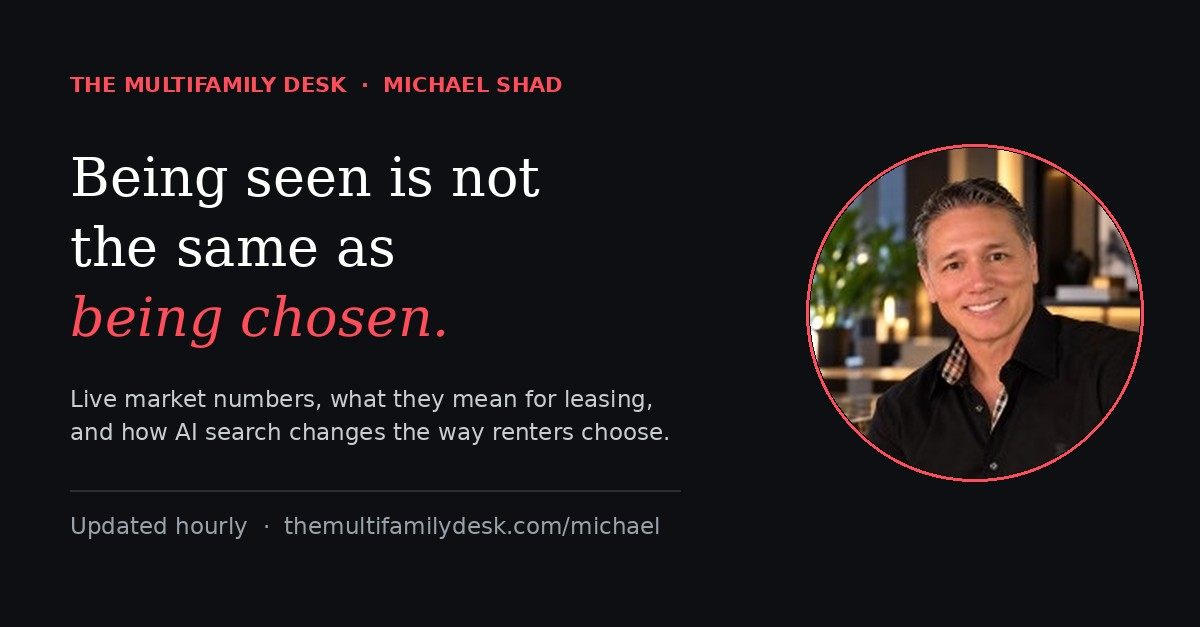
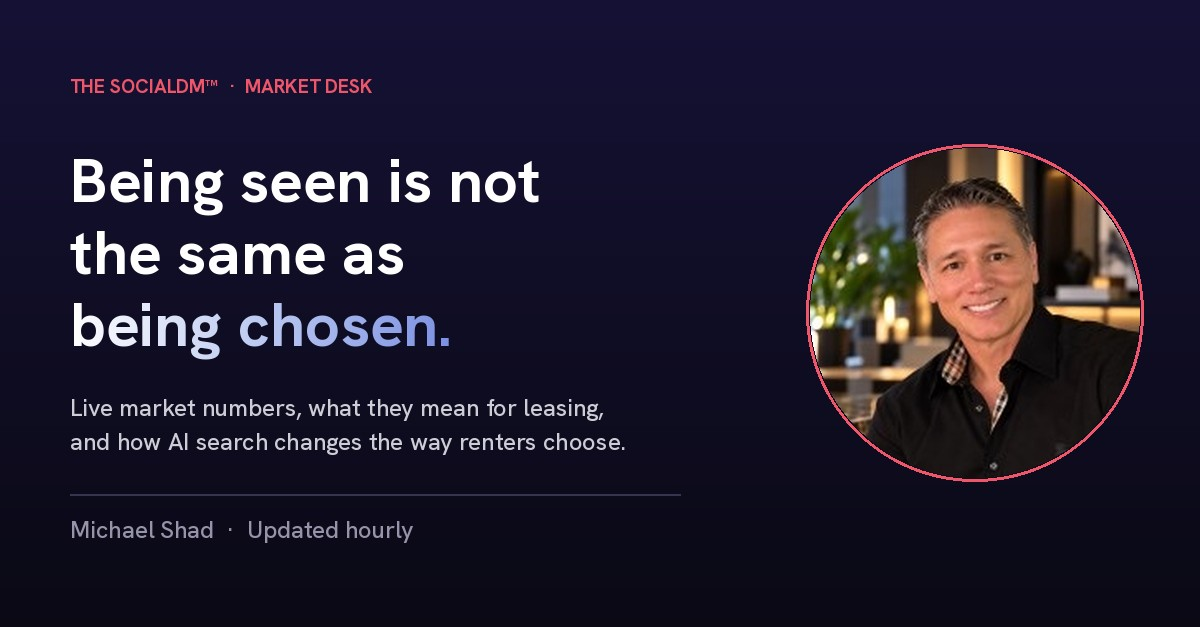
Michael preview: SocialDM site fonts, colors and buttons; SocialDM branding; share image in Hanken Grotesk
Claude-Session: https://claude.ai/code/session_01APSB1hf2Mvpo5YChiyDr2h

diff --git a/michael/index.html b/michael/index.html
@@ -3,28 +3,28 @@
 <head>
 <meta charset="utf-8">
 <meta name="viewport" content="width=device-width,initial-scale=1">
-<title>Michael Shad | Multifamily Marketing, AI Search and Market Data</title>
+<title>Market Desk | The SocialDM: Multifamily Market Data and AI Search</title>
 <meta name="description" content="Multifamily market numbers, checked hourly, what they mean for leasing and marketing, and how AI search is changing the way renters choose. From Michael Shad, founder of The SocialDM.">
 <meta name="robots" content="noindex,nofollow">
 <link rel="canonical" href="https://themultifamilydesk.com/michael/">
-<meta property="og:title" content="Michael Shad | Multifamily Marketing, AI Search and Market Data">
+<meta property="og:title" content="Market Desk | The SocialDM: Multifamily Market Data and AI Search">
 <meta property="og:description" content="Multifamily market numbers, checked hourly, what they mean for leasing and marketing, and how AI search is changing the way renters choose.">
 <meta property="og:url" content="https://themultifamilydesk.com/michael/">
 <meta property="og:type" content="website">
-<meta property="og:site_name" content="The Multifamily Desk">
+<meta property="og:site_name" content="The SocialDM">
 <meta property="og:image" content="https://themultifamilydesk.com/michael/img/og-michael.jpg">
 <meta property="og:image:width" content="1200">
 <meta property="og:image:height" content="627">
 <meta name="twitter:card" content="summary_large_image">
 <link rel="icon" href="/favicon.svg" type="image/svg+xml">
 <link rel="preconnect" href="https://fonts.googleapis.com">
-<link href="https://fonts.googleapis.com/css2?family=Instrument+Serif:ital@0;1&amp;family=Geist:wght@300..700&amp;display=swap" rel="stylesheet">
+<link href="https://fonts.googleapis.com/css2?family=Hanken+Grotesk:ital,wght@0,300;0,400;0,500;0,600;0,700;0,800;1,700&amp;display=swap" rel="stylesheet">
 <style>
-:root{--ink:#0d0f12;--ink2:#15181d;--line:#2a2f36;--mute:#9aa1a9;--soft:#c9cdd2;--lime:#ff4d5a;--paper:#ffffff}
+:root{--ink:#0A0914;--ink2:#14112E;--line:rgba(255,255,255,.14);--mute:rgba(255,255,255,.56);--soft:rgba(255,255,255,.74);--lime:#F0566A;--mist:#B4C3F0;--sky:#7A8FE2;--paper:#E9E8F2;--head:"Hanken Grotesk","Inter",ui-sans-serif,system-ui,sans-serif}
 *{box-sizing:border-box}
-body{margin:0;background:var(--ink);color:#fff;font-family:Geist,system-ui,sans-serif;-webkit-font-smoothing:antialiased}
+body{margin:0;background:var(--ink) linear-gradient(180deg,#0A0914 0,#151135 640px,#0A0914 1400px) no-repeat;color:#fff;font-family:var(--head);-webkit-font-smoothing:antialiased}
 a{color:inherit}
-.serif{font-family:"Instrument Serif",Georgia,serif;font-weight:400}
+.serif{font-family:var(--head);font-weight:700;letter-spacing:-.03em}
 .wrap{max-width:1180px;margin:0 auto;padding:0 24px}
 .top{display:flex;justify-content:space-between;align-items:center;padding:20px 0;border-bottom:1px solid var(--line);font-size:13px;color:var(--mute);letter-spacing:.04em;text-transform:uppercase}
 .top b{color:#fff;font-weight:600}
@@ -34,43 +34,43 @@ a{color:inherit}
 .sig{font-size:14px;color:var(--mute);margin-top:14px}
 @media(max-width:820px){.hgrid{grid-template-columns:minmax(0,1fr)}.pic{width:120px;height:120px;order:-1}}
 .eyebrow{font-size:13px;letter-spacing:.08em;text-transform:uppercase;color:var(--lime)}
-h1{font-size:clamp(44px,7vw,88px);line-height:1;margin:18px 0 0;max-width:900px}
-h1 em{font-style:italic;color:var(--lime)}
+h1{font-size:clamp(42px,6.6vw,84px);line-height:1.02;margin:18px 0 0;max-width:900px;text-wrap:balance}
+h1 em{font-style:normal;background:linear-gradient(90deg,#fff,var(--mist) 55%,var(--sky));-webkit-background-clip:text;background-clip:text;color:transparent}
 .lede{font-size:19px;line-height:1.55;color:var(--soft);max-width:680px;margin:24px 0 0}
 .btns{display:flex;gap:12px;flex-wrap:wrap;margin-top:32px}
-.btn{display:inline-block;padding:14px 22px;font-size:15px;font-weight:600;text-decoration:none;border:1px solid #fff}
-.btn.solid{background:var(--lime);border-color:var(--lime);color:var(--ink)}
+.btn{display:inline-flex;align-items:center;justify-content:center;font:600 13px/1 var(--head);letter-spacing:.12em;text-transform:uppercase;padding:20px 32px;border-radius:6px;text-decoration:none;color:#fff;box-shadow:inset 0 0 0 1.5px rgba(255,255,255,.85)}
+.btn.solid{background:var(--paper);color:var(--ink);box-shadow:none}
 .facts{display:grid;grid-template-columns:repeat(3,minmax(0,1fr));border-top:1px solid var(--line);border-bottom:1px solid var(--line);margin-top:56px}
 .facts>div{padding:22px 24px 22px 0}
 .facts>div+div{padding-left:24px;border-left:1px solid var(--line)}
-.facts .n{font-size:34px}
+.facts .n{font-size:34px;font-weight:700;letter-spacing:-.03em}
 .facts .l{font-size:14px;color:var(--mute);margin-top:6px;line-height:1.4}
 section{padding:72px 0 0}
 .sh{display:flex;justify-content:space-between;align-items:baseline;gap:16px;flex-wrap:wrap;margin-bottom:22px}
-h2{font-size:44px;line-height:1.05;margin:0}
+h2{font-size:44px;line-height:1.05;margin:0;letter-spacing:-.03em}
 .sub{font-size:15px;color:var(--mute);margin-top:8px;max-width:620px;line-height:1.5}
 .chk{font-size:14px;color:var(--soft);display:flex;align-items:center;gap:8px}
 .dot{width:9px;height:9px;border-radius:50%;background:#3ddc84;display:inline-block}
 .tiles{display:grid;grid-template-columns:repeat(5,minmax(0,1fr));gap:1px;background:var(--line);border:1px solid var(--line)}
 .t{background:var(--ink2);padding:22px 20px 18px;display:flex;flex-direction:column;min-height:200px}
 .t .k{font-size:13px;color:var(--soft)}
-.t .v{font-size:40px;line-height:1;margin-top:14px}
+.t .v{font-size:38px;line-height:1;margin-top:14px;font-weight:700;letter-spacing:-.03em}
 .t .c{font-size:14px;margin-top:6px}
 .t svg{margin-top:auto;width:100%;height:46px}
 .t .f{font-size:12px;color:var(--mute);margin-top:8px}
 .rdg{display:grid;grid-template-columns:repeat(2,minmax(0,1fr));gap:0 40px}
 .rd{border-top:1px solid var(--line);padding:16px 0 20px}
-.rdl{font-size:13px;color:var(--lime);letter-spacing:.03em}
+.rdl{font-size:12px;color:var(--lime);letter-spacing:.12em;text-transform:uppercase;font-weight:600}
 .rd p{margin:8px 0 0;font-size:17px;line-height:1.55;color:#e6e8eb}
 .rd.wide{grid-column:1/-1}
 .list a{display:grid;grid-template-columns:150px 1fr;gap:20px;text-decoration:none;border-top:1px solid var(--line);padding:16px 0}
 .list .m{font-size:13px;color:var(--mute);line-height:1.5}
-.list .h{font-size:22px;line-height:1.25}
+.list .h{font-size:20px;line-height:1.3;font-weight:600;letter-spacing:-.01em}
 .list a:hover .h{color:var(--lime)}
 .brands{display:grid;grid-template-columns:repeat(3,minmax(0,1fr));gap:1px;background:var(--line);border:1px solid var(--line)}
-.b{background:var(--paper);color:var(--ink);padding:28px 26px;display:flex;flex-direction:column;text-decoration:none;min-height:260px}
+.b{background:var(--paper);border-radius:0;color:var(--ink);padding:28px 26px;display:flex;flex-direction:column;text-decoration:none;min-height:260px}
 .b .tag{font-size:12px;letter-spacing:.08em;text-transform:uppercase;color:#5b626b}
-.b .nm{font-size:34px;line-height:1.05;margin-top:12px}
+.b .nm{font-size:30px;line-height:1.05;margin-top:12px}
 .b p{font-size:15px;line-height:1.55;color:#363c44;margin:12px 0 0}
 .b .go{margin-top:auto;padding-top:18px;font-weight:600;font-size:15px}
 .b:hover .go{text-decoration:underline}
@@ -82,7 +82,7 @@ footer a{color:var(--soft)}
 </head>
 <body>
 <div class="wrap">
-<div class="top"><span><b>Michael Shad</b> · The Multifamily Desk</span><span>Updated hourly</span></div>
+<div class="top"><span><b>The SocialDM&#8482;</b> · Market Desk</span><span>Updated hourly</span></div>
 
 <header class="hero">
 <div class="hgrid"><div>
@@ -118,7 +118,7 @@ footer a{color:var(--soft)}
 </section>
 
 <section id="desk">
-<div class="sh"><div><h2 class="serif">From the Market Desk</h2><div class="sub">The multifamily stories worth an operator's time.</div></div><a class="btn" href="/pillar/market-desk/" style="font-size:14px;padding:10px 16px">All stories</a></div>
+<div class="sh"><div><h2 class="serif">From the Market Desk</h2><div class="sub">The multifamily stories worth an operator's time.</div></div><a class="btn" href="/pillar/market-desk/" style="padding:14px 20px">All stories</a></div>
 <div class="list" id="news"></div>
 </section>
 
@@ -133,7 +133,7 @@ footer a{color:var(--soft)}
 
 <footer>
 <div>Sources: U.S. Treasury, Federal Reserve Bank of New York (SOFR) and Freddie Mac, via FRED (St. Louis Fed); U.S. Census Bureau; U.S. Bureau of Labor Statistics. Headlines belong to their publishers. Changes are from the prior reading, in basis points (bp) for rates and percentage points (pt) for vacancy. Commentary explains what a move means and is not investment advice.</div>
-<div style="margin-top:14px">Part of <a href="/">The Multifamily Desk</a> · Site by <a href="https://www.thesocialdm.com/">The SocialDM</a></div>
+<div style="margin-top:14px"><a href="https://www.thesocialdm.com/">The SocialDM&#8482;</a>, created in 2019 · Market Desk by Michael Shad</div>
 </footer>
 </div>
 
@@ -151,12 +151,12 @@ footer a{color:var(--soft)}
     var lo = Math.min.apply(null, vals), hi = Math.max.apply(null, vals), r = hi - lo || 1, n = vals.length;
     var pts = vals.map(function (v, i) { return (4 + i * 232 / (n - 1)).toFixed(1) + "," + (52 - (v - lo) / r * 48).toFixed(1); });
     var pl = document.createElementNS(ns, "polyline"); pl.setAttribute("points", pts.join(" "));
-    pl.setAttribute("fill", "none"); pl.setAttribute("stroke", "#ff4d5a"); pl.setAttribute("stroke-width", "2"); pl.setAttribute("vector-effect", "non-scaling-stroke");
+    pl.setAttribute("fill", "none"); pl.setAttribute("stroke", "#7A8FE2"); pl.setAttribute("stroke-width", "2"); pl.setAttribute("vector-effect", "non-scaling-stroke");
     svg.appendChild(pl); return svg;
   }
   function rows(box, items) { box.innerHTML = ""; items.forEach(function (x) { var w = el("div", "rd" + (x.label === "What to watch" ? " wide" : "")); w.appendChild(el("div", "rdl", x.label)); w.appendChild(el("p", null, x.text)); box.appendChild(w); }); }
   function list(box, items) { box.innerHTML = ""; items.forEach(function (x) { var a = el("a"); a.href = x.link; a.rel = "noopener"; var p = x.date.split("-");
-    a.appendChild(el("div", "m", x.source + " · " + MON[+p[1] - 1] + " " + (+p[2]))); a.appendChild(el("div", "h serif", x.title.replace(/(\d)\s*[-\u2013\u2014]\s*(\d)/g, "$1 to $2").replace(/\s+[\u2013\u2014-]\s+/g, ": "))); box.appendChild(a); }); }
+    a.appendChild(el("div", "m", x.source + " · " + MON[+p[1] - 1] + " " + (+p[2]))); a.appendChild(el("div", "h", x.title.replace(/(\d)\s*[-\u2013\u2014]\s*(\d)/g, "$1 to $2").replace(/\s+[\u2013\u2014-]\s+/g, ": "))); box.appendChild(a); }); }
 
   fetch("/data/pulse.json", { cache: "no-store" }).then(function (r) { return r.json(); }).then(function (d) {
     var box = document.getElementById("tiles"); box.innerHTML = "";
